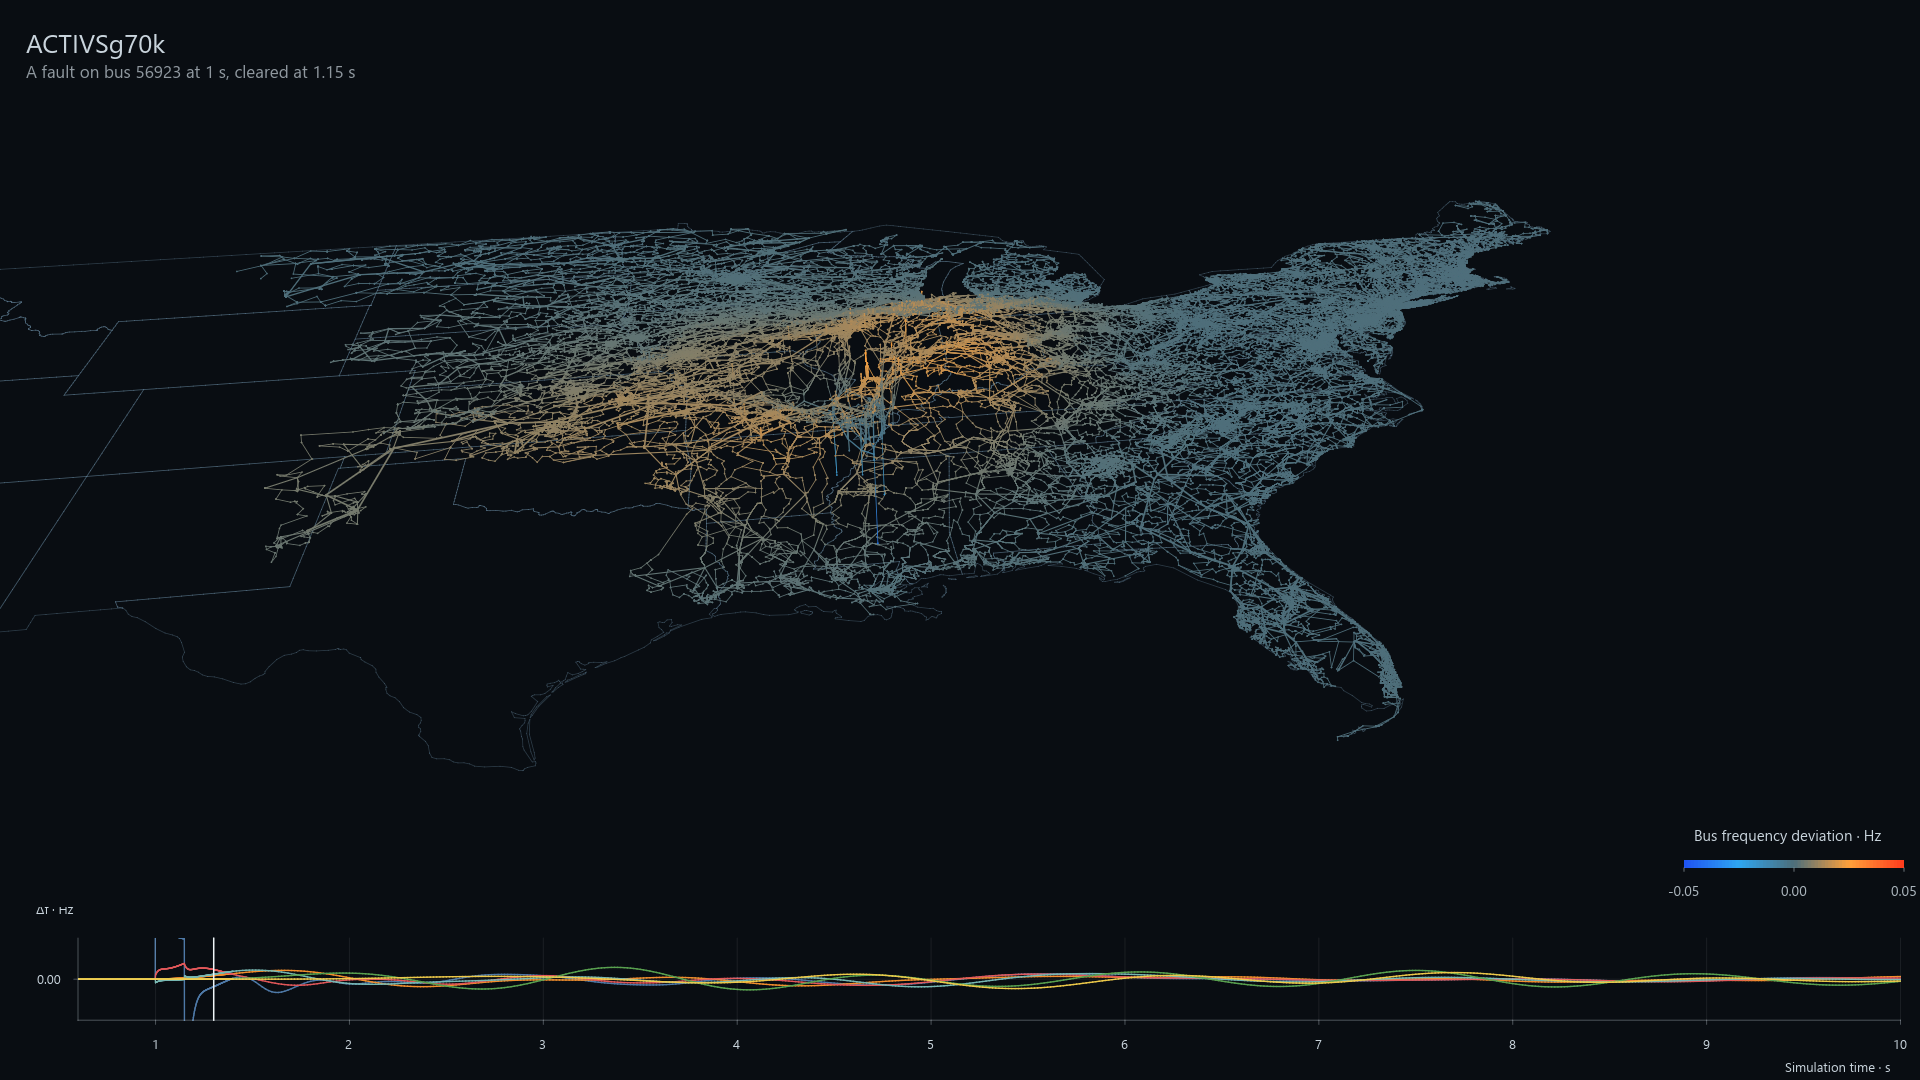
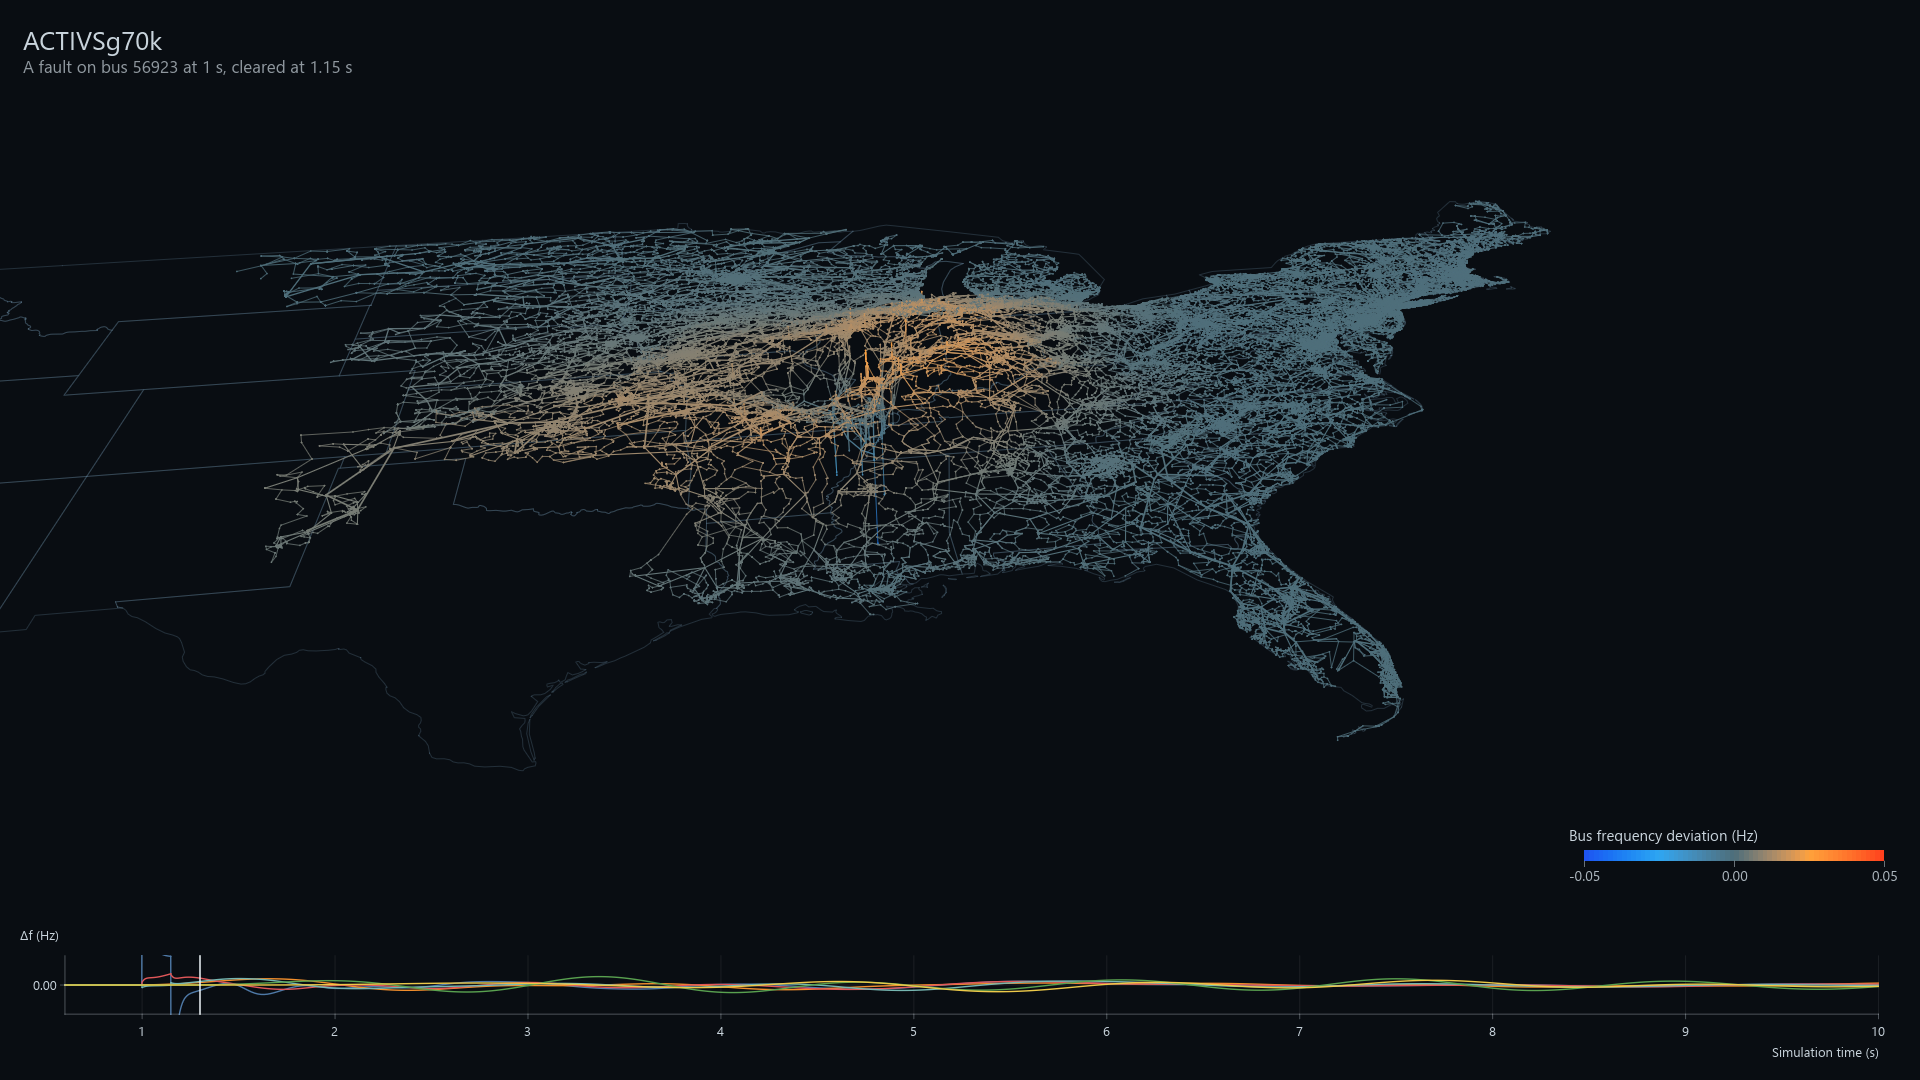
polish before release

diff --git a/npm/examples/src/shell/shell.ts b/npm/examples/src/shell/shell.ts
@@ -90,7 +90,7 @@ export function start(pages: readonly Entry[]): void {
     open = undefined;
     regions.error.hidden = true;
     picker.value = entry.id;
-    document.title = `${entry.title} · latkit`;
+    document.title = `${entry.title} | latkit`;
     regions.detail.textContent = 'Loading…';
     try {
       const [{ default: page }] = await Promise.all([entry.load(), load()]);
@@ -445,8 +445,8 @@ class OpenPage implements Context<Record<string, unknown>> {
       const stats = view.stats;
       line.textContent = [
         `${((frames * 1000) / (now - since)).toFixed(0)} fps`,
-        `frame ${stats.cpuMs.toFixed(1)} ms${stats.gpuMs ? ` · GPU ${stats.gpuMs.toFixed(2)} ms` : ''}`,
-        `${stats.drawn.toLocaleString()} rows drawn · ${stats.draws} draws`,
+        `frame ${stats.cpuMs.toFixed(1)} ms${stats.gpuMs ? `, GPU ${stats.gpuMs.toFixed(2)} ms` : ''}`,
+        `${stats.drawn.toLocaleString()} rows drawn, ${stats.draws} draws`,
         `${(gpu.resident / MB).toFixed(0)} of ${(gpu.budget.bytes / MB).toFixed(0)} MB on the GPU`,
         ...(this.#stepMs > 0.05 ? [`page ${this.#stepMs.toFixed(1)} ms a frame`] : []),
         ...(view.waiting.length ? [`waiting on ${view.waiting.join(', ')}`] : []),

diff --git a/benchmark/page/main.ts b/benchmark/page/main.ts
@@ -131,7 +131,7 @@ async function canvases(n: number): Promise<HTMLCanvasElement[]> {
 }
 
 /** Describes the browser's high-performance renderer, and the browser, as in
- * `<renderer> · Chrome <n>`. Times compare only on the same renderer and browser. */
+ * `<renderer> - Chrome <n>`. Times compare only on the same renderer and browser. */
 async function machine(): Promise<string> {
   const gl = new OffscreenCanvas(1, 1).getContext('webgl2', {
     powerPreference: 'high-performance',
@@ -151,7 +151,7 @@ async function machine(): Promise<string> {
   )
     .map(([name, pattern]) => [name, pattern.exec(agent)?.[1]] as const)
     .find(([, version]) => version) ?? ['browser', 'unknown'];
-  return `${renderer} · ${browser} ${version}`;
+  return `${renderer} - ${browser} ${version}`;
 }
 
 declare global {

diff --git a/docs/gallery/flow.ts b/docs/gallery/flow.ts
@@ -80,7 +80,7 @@ class Susceptance {
     return 1 / reactance(this.net, e);
   }
 
-  /** Writes `B·v` into `out`. */
+  /** Writes `B * v` into `out`. */
   times(v: Float64Array, out: Float64Array): void {
     for (let b = 0; b < v.length; b++) {
       let sum = this.diagonal[b]! * v[b]!;
@@ -102,7 +102,7 @@ class Susceptance {
     return p.map((v, b) => v - mean[this.island[b]!]!);
   }
 
-  /** Solves `B·θ = p` for the angles `θ`, after balancing `p` per island, by conjugate gradients
+  /** Solves `B * θ = p` for the angles `θ`, after balancing `p` per island, by conjugate gradients
    * with a diagonal (Jacobi) preconditioner. A bus with no branch in service keeps an angle of 0. */
   solve(injection: Float64Array, tolerance = 1e-10): Float64Array {
     const n = injection.length;

diff --git a/npm/examples/src/pages/grids/maps.ts b/npm/examples/src/pages/grids/maps.ts
@@ -35,7 +35,7 @@ export interface Basemap {
 /** No map: the earth's ground alone. */
 export const NO_MAP: Basemap = { credit: '', data: [], marks: [] };
 
-const NATURAL_EARTH = 'Natural Earth · public domain';
+const NATURAL_EARTH = 'Natural Earth (public domain)';
 const NE = 'https://raw.githubusercontent.com/nvkelso/natural-earth-vector/master/geojson/';
 
 export const MAPS: Record<
@@ -82,7 +82,7 @@ export const MAPS: Record<
   planet() {
     const base = new Tiles('base', 'https://tiles.openfreemap.org/planet');
     return {
-      credit: 'OpenFreeMap · © OpenMapTiles · © OpenStreetMap contributors',
+      credit: 'OpenFreeMap, © OpenMapTiles, © OpenStreetMap contributors',
       data: [],
       marks: [
         { areas: base.table('landcover'), color: LOOK.landcover },

diff --git a/npm/examples/src/pages/grids/index.ts b/npm/examples/src/pages/grids/index.ts
@@ -36,7 +36,7 @@ async function load(
         );
   const peak = (values: Float32Array) => values.reduce((most, v) => Math.max(most, v), 1);
   detail(
-    `${found.name} · ${found.buses.toLocaleString()} buses · ${found.lines.toLocaleString()} lines`,
+    `${found.name}: ${found.buses.toLocaleString()} buses, ${found.lines.toLocaleString()} lines`,
   );
   return { ...found, peak: { load: peak(found.load), generation: peak(found.generation) } };
 }
@@ -52,7 +52,7 @@ export default page({
         ACTIVSg10k: 'activsg10k',
         ACTIVSg25k: 'activsg25k',
         ACTIVSg70k: 'activsg70k',
-        'North America · 2M': 'continent-2m',
+        'North America (2M)': 'continent-2m',
       },
       { value: 'activsg25k' },
     ),

diff --git a/docs/gallery/voltage.ts b/docs/gallery/voltage.ts
@@ -22,12 +22,12 @@ export function voltageDip({ times, bus_ids }: Recording, bytes: DataView): Pict
         plot: {
           x: {
             label: 'Time (s)',
-            ticks: [0.8, [1, '1.00 · fault'], [1.15, '1.15 · clear'], 1.4, 1.6],
+            ticks: [0.8, [1, '1.00 (fault)'], [1.15, '1.15 (clear)'], 1.4, 1.6],
           },
           y: { label: 'Voltage (p.u.)', ticks: [0.9, 0.95, 1, 1.05, 1.1], precision: 2 },
         },
       },
-      title: { text: 'John Day', subtitle: 'Bus 4005 · WECC240' },
+      title: { text: 'John Day', subtitle: 'Bus 4005 (WECC240)' },
       theme: {
         background: '#101923',
         text: { color: '#e2eaf1', size: 13, halo: 0 },

diff --git a/npm/examples/src/pages/oneline.ts b/npm/examples/src/pages/oneline.ts
@@ -188,7 +188,7 @@ export default page({
   async open({ settings, view, detail }) {
     const data = new Data('grid');
     const count = (buses: number) =>
-      detail(`${buses.toLocaleString()} buses · ${grid(data, buses).toLocaleString()} branches`);
+      detail(`${buses.toLocaleString()} buses, ${grid(data, buses).toLocaleString()} branches`);
     count(settings.buses);
     const kv = field('kv').colormap({ kind: 'categorical', colors: COLORS, values: LEVELS });
     const shown = await view((s) => ({

diff --git a/benchmark/run.ts b/benchmark/run.ts
@@ -92,8 +92,8 @@ const timesFile = (machine: string) =>
   path.join(
     baselines,
     `${machine
-      .replace(/ · Chrome \S+$/, '')
-      .replace(/ · (\w+) \S+$/, ' $1')
+      .replace(/ - Chrome \S+$/, '')
+      .replace(/ - (\w+) \S+$/, ' $1')
       .toLowerCase()
       .replace(/[^a-z0-9]+/g, '-')
       .replace(/^-|-$/g, '')}.json`,

diff --git a/npm/examples/src/pages/bunny/index.ts b/npm/examples/src/pages/bunny/index.ts
@@ -260,7 +260,7 @@ export default page({
       }
     });
     detail(
-      `${mesh.count.toLocaleString()} vertices · ${mesh.springs.a.length.toLocaleString()} wireframe edges`,
+      `${mesh.count.toLocaleString()} vertices, ${mesh.springs.a.length.toLocaleString()} wireframe edges`,
     );
     body.drop(true);
     record();

diff --git a/npm/examples/src/pages/hawaii.ts b/npm/examples/src/pages/hawaii.ts
@@ -63,7 +63,7 @@ export default page({
         },
       ],
     }));
-    detail('Hawaii40 · 37 buses · 89 branches');
-    credit('Synthetic Oʻahu case · one-line drawing from gridparse');
+    detail('Hawaii40 (37 buses, 89 branches)');
+    credit('Synthetic Oʻahu case');
   },
 });

diff --git a/crates/latkit/src/view/camera.rs b/crates/latkit/src/view/camera.rs
@@ -153,7 +153,7 @@ impl Limits {
             Space::Earth(earth) => Some(earth.projection),
             _ => None,
         };
-        // The world is 256 · 2^zoom CSS pixels across, and the globe 1/π of that.
+        // The world is 256 * 2^zoom CSS pixels across, and the globe 1/π of that.
         let least = match (projection, room) {
             (Some(crate::Projection::Mercator), Some([w, h])) => (w.min(h) / 256.0).log2(),
             (Some(crate::Projection::Globe), Some([w, h])) => (w.min(h) / 3.0 * PI / 256.0).log2(),
@@ -339,7 +339,7 @@ impl Camera {
             center = [across(0), across(1), center[2].clamp(framed.min[2], framed.max[2])];
         }
         if let Some([w, h]) = limits.world {
-            // The world is 256 · 2^zoom CSS pixels across. Its edges stay outside the framed area
+            // The world is 256 * 2^zoom CSS pixels across. Its edges stay outside the framed area
             // while the center stays half the area's width and height from them.
             let world = 256.0 * zoom.exp2();
             let east = 180.0 * (1.0 - w / world).max(0.0);
@@ -1001,7 +1001,7 @@ mod tests {
             "a view without a size"
         );
         let limits = Limits::new(&flat(), Some(SIZE), None, Reach::default());
-        // The world is 256 · 2^zoom pixels across. All the way out, it fits the view's 600 pixels
+        // The world is 256 * 2^zoom pixels across. All the way out, it fits the view's 600 pixels
         // of height, and the center sits on the world's middle.
         assert!((limits.zoom[0] - (600.0_f64 / 256.0).log2()).abs() < 1e-12, "{:?}", limits.zoom);
         let out = Camera::Map { center: [170.0, 80.0, 0.0], zoom: 0.0, pitch: 0.0, bearing: 0.0 };
@@ -1047,7 +1047,7 @@ mod tests {
     #[test]
     fn the_globe_zooms_out_until_it_spans_a_third_of_the_view() {
         let limits = Limits::new(&globe(), Some(SIZE), None, Reach::default());
-        // The globe is 256 · 2^zoom / π pixels across.
+        // The globe is 256 * 2^zoom / π pixels across.
         let across = 256.0 * limits.zoom[0].exp2() / PI;
         assert!((across - 200.0).abs() < 1e-9, "{across}");
         // Its longitude wraps, so any center is within the limits.

diff --git a/crates/latkit-cli/examples/bus-fault/render.py b/crates/latkit-cli/examples/bus-fault/render.py
@@ -91,8 +91,7 @@ def prepare(source, job, indices):
         "map.json": {
             "space": {"plane": {"grid": "off"}}, "ease": 0,
             "theme": {**theme, "edge": {"color": None, "parallel": None}},
-            "title": "ACTIVSg70k",
-            "subtitle": f"A fault on bus {FAULT} at 1 s, cleared at 1.15 s",
+            "title": {"text": "ACTIVSg70k", "subtitle": f"A fault on bus {FAULT} at 1 s, cleared at 1.15 s"},
             "marks": [
                 {"lines": ["states", "polygons"], "color": "#5c7a8f6b", "width": 0.75},
                 {"edges": ["grid", "Branch"], "ends": ["from", "to"], "width": "$width"},
@@ -101,12 +100,12 @@ def prepare(source, job, indices):
                     "elevation": {"mul": ["$height", height_scale]},
                     "color": {"colormap": {"kind": "diverging", "colors": PALETTE},
                               "value": "$df", "domain": [-0.05, 0.05]},
-                    "legend": "Bus frequency deviation · Hz",
+                    "legend": "Bus frequency deviation (Hz)",
                 },
             ],
         },
         "plot.json": {
-            "space": {"plot": {"x": {"label": "Simulation time · s"}, "y": {"label": "Δf · Hz", "precision": 2}}},
+            "space": {"plot": {"x": {"label": "Simulation time (s)"}, "y": {"label": "Δf (Hz)", "precision": 2}}},
             "ease": 0,
             "theme": {**theme, "text": {**theme["text"], "size": 13}, "plot": {"playhead": "#eff5f8"}},
             "marks": [{"lines": ["trace", "Bus"], "trace": "df", "width": 1.4,
